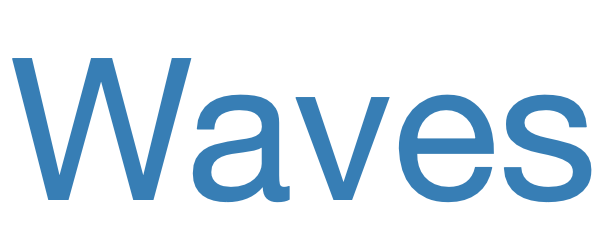
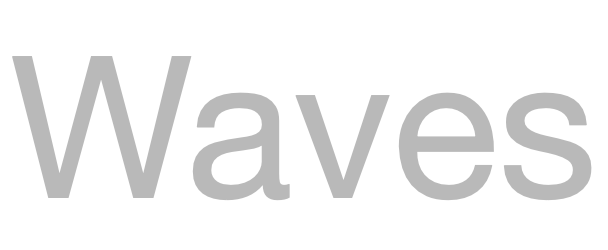
Adding examples

Changed region(s): [[0.0, 0.224, 1.0, 0.812]]

diff --git a/src/intro.js b/src/intro.js
@@ -9,10 +9,12 @@ attribute float a_center;
 uniform float u_style;
 uniform mat3 u_matrix;
 uniform float u_time;
+uniform vec4 u_col;
+varying vec4 v_col;
 void main() {
   float x;
   float y;
-  if (u_style < 1.0) {
+  if (u_style == 0.0) {
     if (a_position.y > 0.0) {
       float r = ((a_position.y + 2.0) * (a_position.y + 2.0)) / 80.0;
       float f = 0.6;
@@ -24,17 +26,39 @@ void main() {
       x = a_position.x;
       y = a_position.y;
     }
+    v_col = u_col;
   }
-  if (u_style > 1.0) {
+  if (u_style == 1.0) {
     float f = 0.3;
-    float L = 4.0;
-    float c = -2.0;
+    float L = 4.5;
+    float c = 2.0;
     float twoPi = 3.131596 * 2.0;
-    float d = 0.3 * sin(twoPi * f * u_time + twoPi / L * a_center);
+    float d = 0.3 * sin(twoPi * f * u_time - twoPi / L * a_center);
     x = a_position.x + d;
     y = a_position.y;
+    v_col = u_col;
+  }
+  if (u_style == 2.0) {
+    float f = 0.1;
+    float c = -2.0;
+    float twoPi = 3.131596 * 2.0;
+    float L = 2.0 * abs(sin(twoPi * u_time * f)) + 2.0;
+    float d = 0.3 * sin(twoPi * f * u_time + twoPi / L * a_position.y);
+    x = a_position.x + 0.0;
+    float refY = 2.0 * sin(twoPi / L * (a_position.x - 5.0));
+    if (a_position.y == 0.0) {
+      // y = (a_position.y) * sin(twoPi / 10.0 * a_position.x) - d / 2.0;
+      y = refY - 0.2 - 0.2 * abs(cos(twoPi / L * (a_position.x - 5.0)));
+    } else { 
+      // y = (a_position.y) * sin(twoPi / 10.0 * a_position.x) - d / 2.0;
+      y = refY;
+    }
+    
+    // y = a_position.y + d;
+    v_col = vec4((L - 2.0) / 2.0, 0, 1.0 - (L - 2.0) / 2.0, 1);
   }
   gl_Position = vec4((u_matrix * vec3(x, y, 1)).xy, 0, 1);
+  // v_col = vec4(1, 1, 0, 0.8);
 }`;
 
   const points = [];
@@ -75,11 +99,11 @@ void main() {
         // matrix)
         vertexShader: {
           src: vertexShader,
-          vars: ['a_position', 'u_matrix', 'u_time', 'u_style', 'a_center'],
+          vars: ['a_position', 'u_matrix', 'u_time', 'u_style', 'a_center', 'u_col'],
         },
         // vertexShader: 'simple',
         // Build in shader with one color for all vertices
-        fragShader: 'simple',
+        fragShader: 'vertexColor',
         // fragShader: {
         //   src: fragmentShader,
         //   vars: ['u_color'],
@@ -91,6 +115,7 @@ void main() {
         uniforms: [
           { name: 'u_time', length: 1, type: 'FLOAT' },
           { name: 'u_style', length: 1, type: 'FLOAT' },
+          { name: 'u_col', length: 4, type: 'FLOAT' },
         ],
         // Element color and mods
         color: [0, 0.5, 1, 0.8],
@@ -103,7 +128,7 @@ void main() {
       // addHighlight('h4', 25050),
     ],
     // transform: [['t', 5, 6]],
-    position: [6, 6],
+    position: [0, 0],
   });
   console.log(medium._particles.drawingObject.uniforms)
   // const movePad = medium._movePad;
@@ -116,7 +141,8 @@ void main() {
     update: () => {
       const t = figure.timeKeeper.now() / 1000;
       medium._particles.drawingObject.uniforms.u_time.value = [t];
-      medium._particles.drawingObject.uniforms.u_style.value = [2.0];
+      medium._particles.drawingObject.uniforms.u_style.value = [1.0];
+      medium._particles.drawingObject.uniforms.u_col.value = [0.5, 0.5, 0.5, 0.2];
       // medium._h1.update(t);
       // medium._h2.update(t);
       // medium._h3.update(t);

diff --git a/src/title.js b/src/title.js
@@ -12,7 +12,7 @@ uniform mat3 u_matrix;
 varying vec2 v_texcoord;
 void main() {
   float twopi = 2.0 * 3.1415926;
-  float L = 10.0;
+  float L = 10.08;
   float f = 0.4;
   float delta = 0.4 * sin(twopi / L * a_position.x - twopi * f * u_time);
   delta = a_offset;
@@ -33,8 +33,6 @@ void main() {
     vars: ['u_color', 'u_texture'],
   };
   const points = [];
-  const sides = 10;
-  const step = Math.PI * 2 / (sides);
   const offsets = [];
   const xLocations = [];
   const y = height;
@@ -63,13 +61,13 @@ void main() {
         uniforms: [{ name: 'u_time', length: 1, type: 'FLOAT' }],
         texture: { src: './title.png', mapTo: new Fig.Rect(0, 0, length, height) },
         color: [1, 0, 0, 1],
-        transform: [['t', 0, -1]],
+        transform: [['t', 0, -0.6]],
       },
       {
         name: 'envelope',
         make: 'polyline',
         width: 0.05,
-        color: color1,
+        color: colorLight,
       },
       {
         name: 'movePadHighlight',
@@ -97,7 +95,7 @@ void main() {
       },
     ],
     // transform: [['t', 12 - length / 2, 6 - height / 2]],
-    position: [6, 5],
+    position: [8, 5],
   });
   // title.setPosition(5, 5);
   console.log(offsets.length)

diff --git a/src/examples.js b/src/examples.js
@@ -1,0 +1,33 @@
+function addExamples() {
+  const text = (label, size, location) => ({
+    text: label,
+    location,
+    font: { size },
+  })
+  figure.add({
+    name: 'examples',
+    make: 'text',
+    font: { color: color1, size: 2 },
+    xAlign: 'center',
+    text: [
+      text('Ocean Waves', 1.2, [18, 9]),
+      text('Sound', 1.2, [12, 2]),
+      text('Light', 1.2, [2.5, 5]),
+      text('Seismic Waves', 0.5, [11, 9.5]),
+      text('Shock Waves', 0.5, [2, 11]),
+      text('Gravity Waves', 0.6, [19, 0.7]),
+      text('Ultrasound', 0.6, [3, 8]),
+      text('Radio', 0.7, [4, 2]),
+      text('Cellular Signals', 0.6, [19, 6]),
+      text('WiFi Signals', 0.8, [21, 4]),
+      text('GPS Signals', 0.6, [8, 3]),
+      text('Water Ripples', 0.5, [7, 1]),
+      text('X-Rays', 0.8, [4, 9]),
+      text('Gamma-Rays', 0.6, [20, 11]),
+      text('Microwaves', 0.5, [8, 10.5]),
+      text('Infrared', 0.7, [14, 1]),
+      text('Vibrating Strings', 0.6, [21, 2.5]),
+    ],
+    color: color1,
+  });
+}

diff --git a/src/index.js b/src/index.js
@@ -55,6 +55,7 @@ addFigureElements();
 const m1 = figure.get('m1');
 const p1 = figure.get('p1');
 const ocean = figure.get('ocean');
+const examples = figure.get('examples');
 const intro = figure.get('intro');
 const timePlot1 = figure.get('timePlot1');
 const eqnSine = figure.get('eqnSine');
@@ -246,7 +247,7 @@ nav.loadSlides([
     scenarioCommon: 'default',
     showCommon: 'm1',
     // form: 'yx1eyx0',
-    show: ['title', 'intro'],
+    show: ['title', 'examples'],
     hideCommon: ['m1.xAxis', 'm1.yAxis', 'm1.ballTracker', 'm1.envelope'],
     hide: 'm1',
     steadyState: () => {

diff --git a/src/index.html b/src/index.html
@@ -24,6 +24,7 @@
       <script type="text/javascript" src='./eqn-sinex0.js'></script>
       <script type="text/javascript" src='./eqn-diff.js'></script>
       <script type="text/javascript" src='./title.js'></script>
+      <script type="text/javascript" src='./examples.js'></script>
       <script type="text/javascript" src='./intro.js'></script>
       <script type="text/javascript" src='./time.js'></script>
       <script type="text/javascript" src='./disturbances.js'></script>

diff --git a/src/layout.js b/src/layout.js
@@ -48,6 +48,8 @@ function addFigureElements() {
   addSineEquation('eqnSine');
   addSineX0Equation('eqnSineX0');
   addDiffEquation('eqnDiff');
-  addTitle(2.88 * 4, 1.44 * 4, 0.1);
-  addIntro(10, 2, 0.1);
+  // addTitle(2.88 * 4, 1.44 * 4, 0.1);
+  addTitle(8, 4, 0.1);
+  addIntro(24, 4, 0.1);
+  addExamples();
 };
